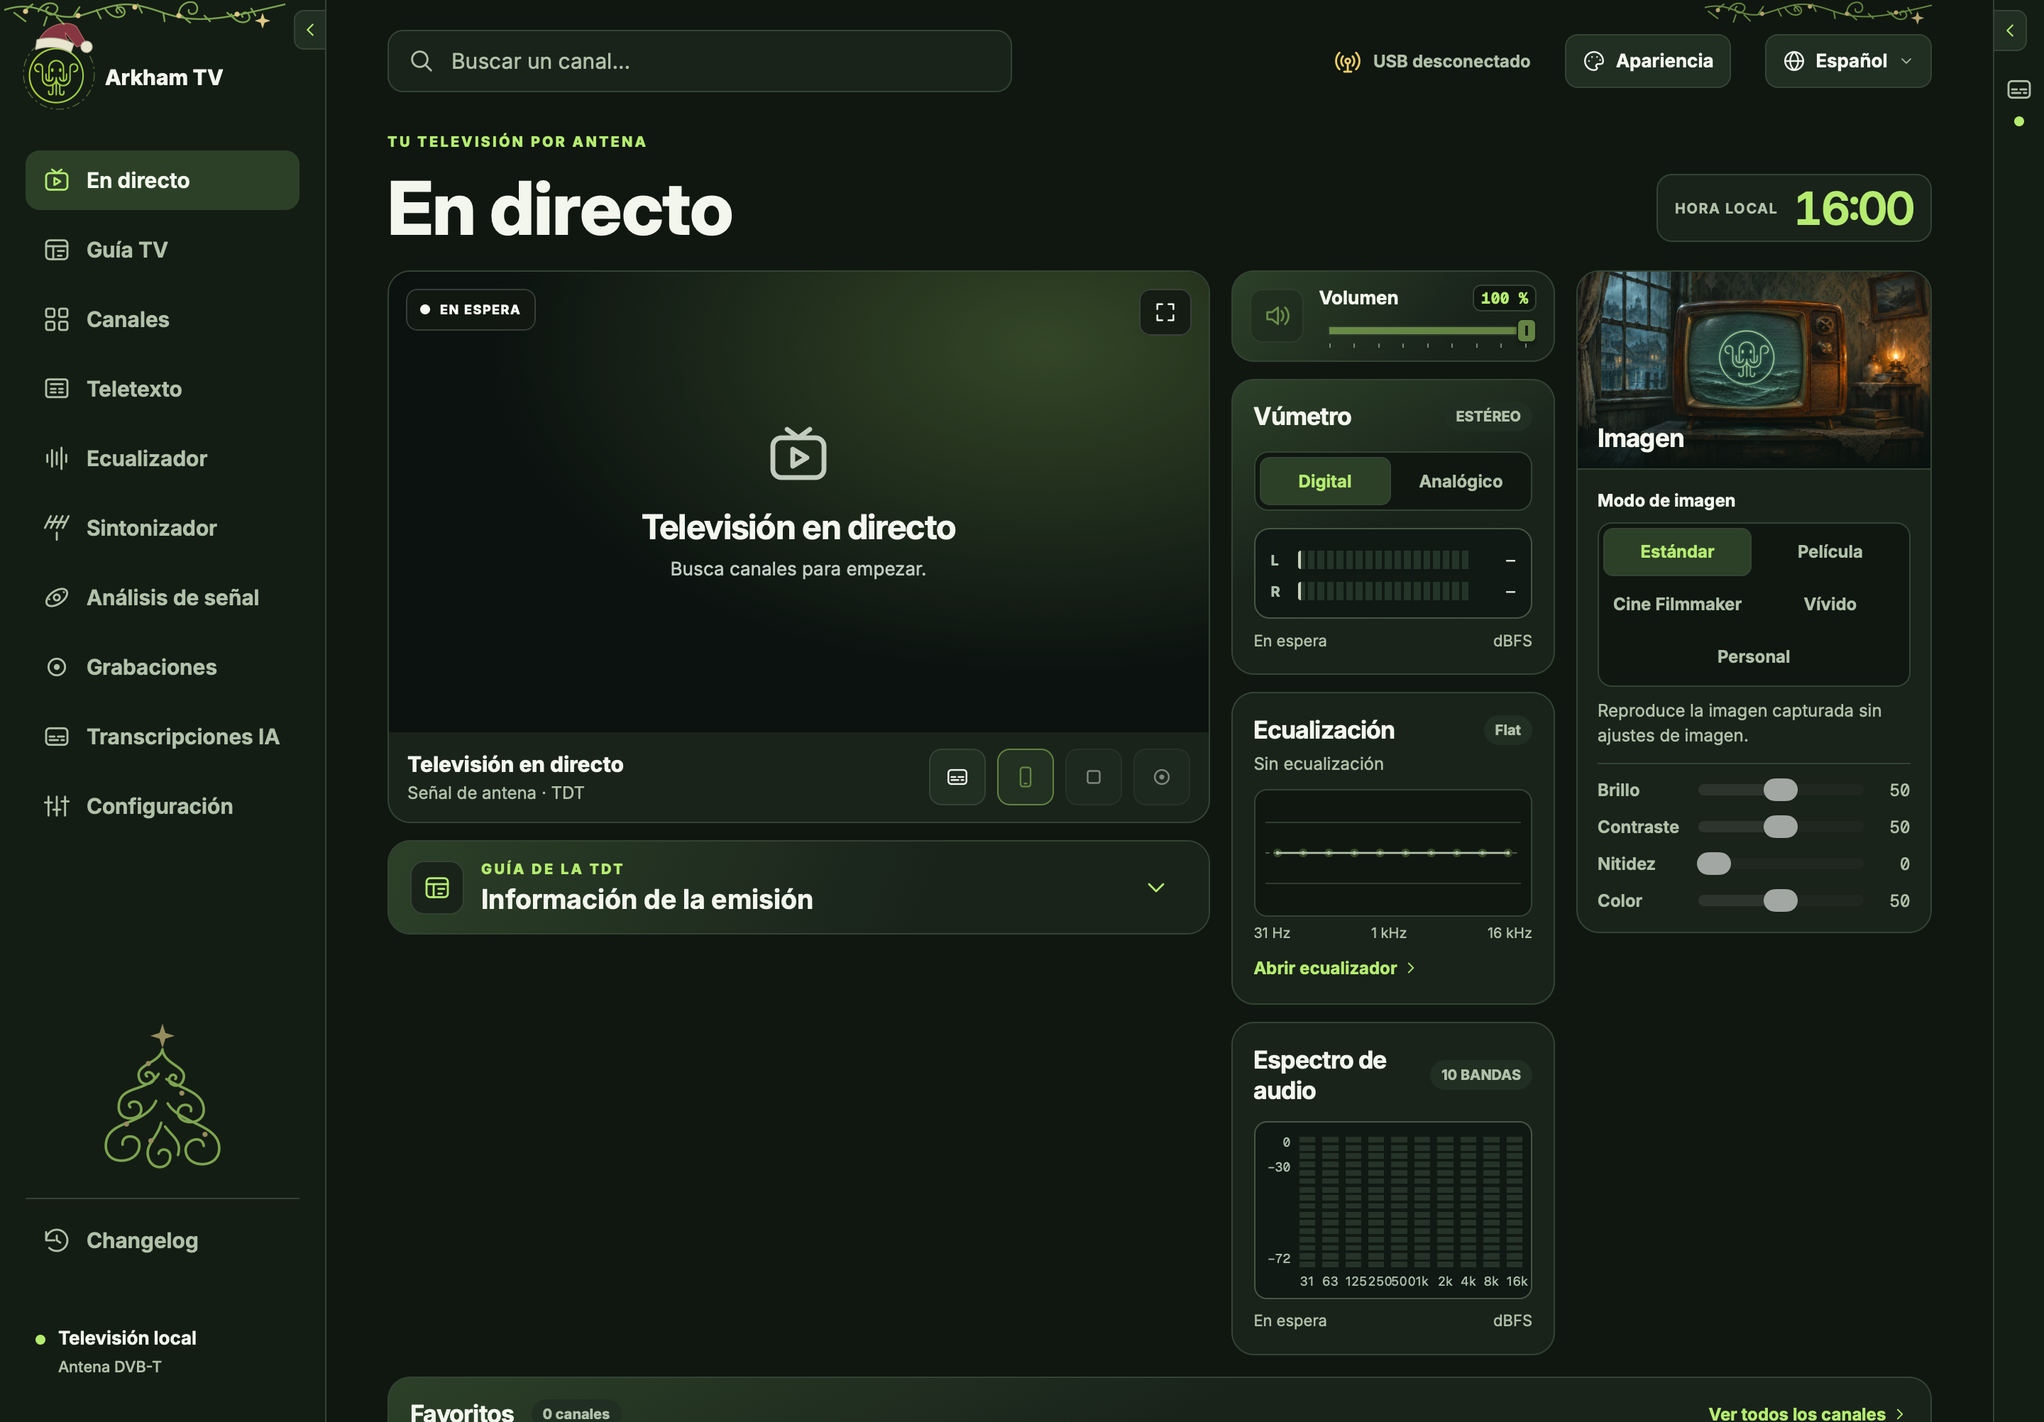
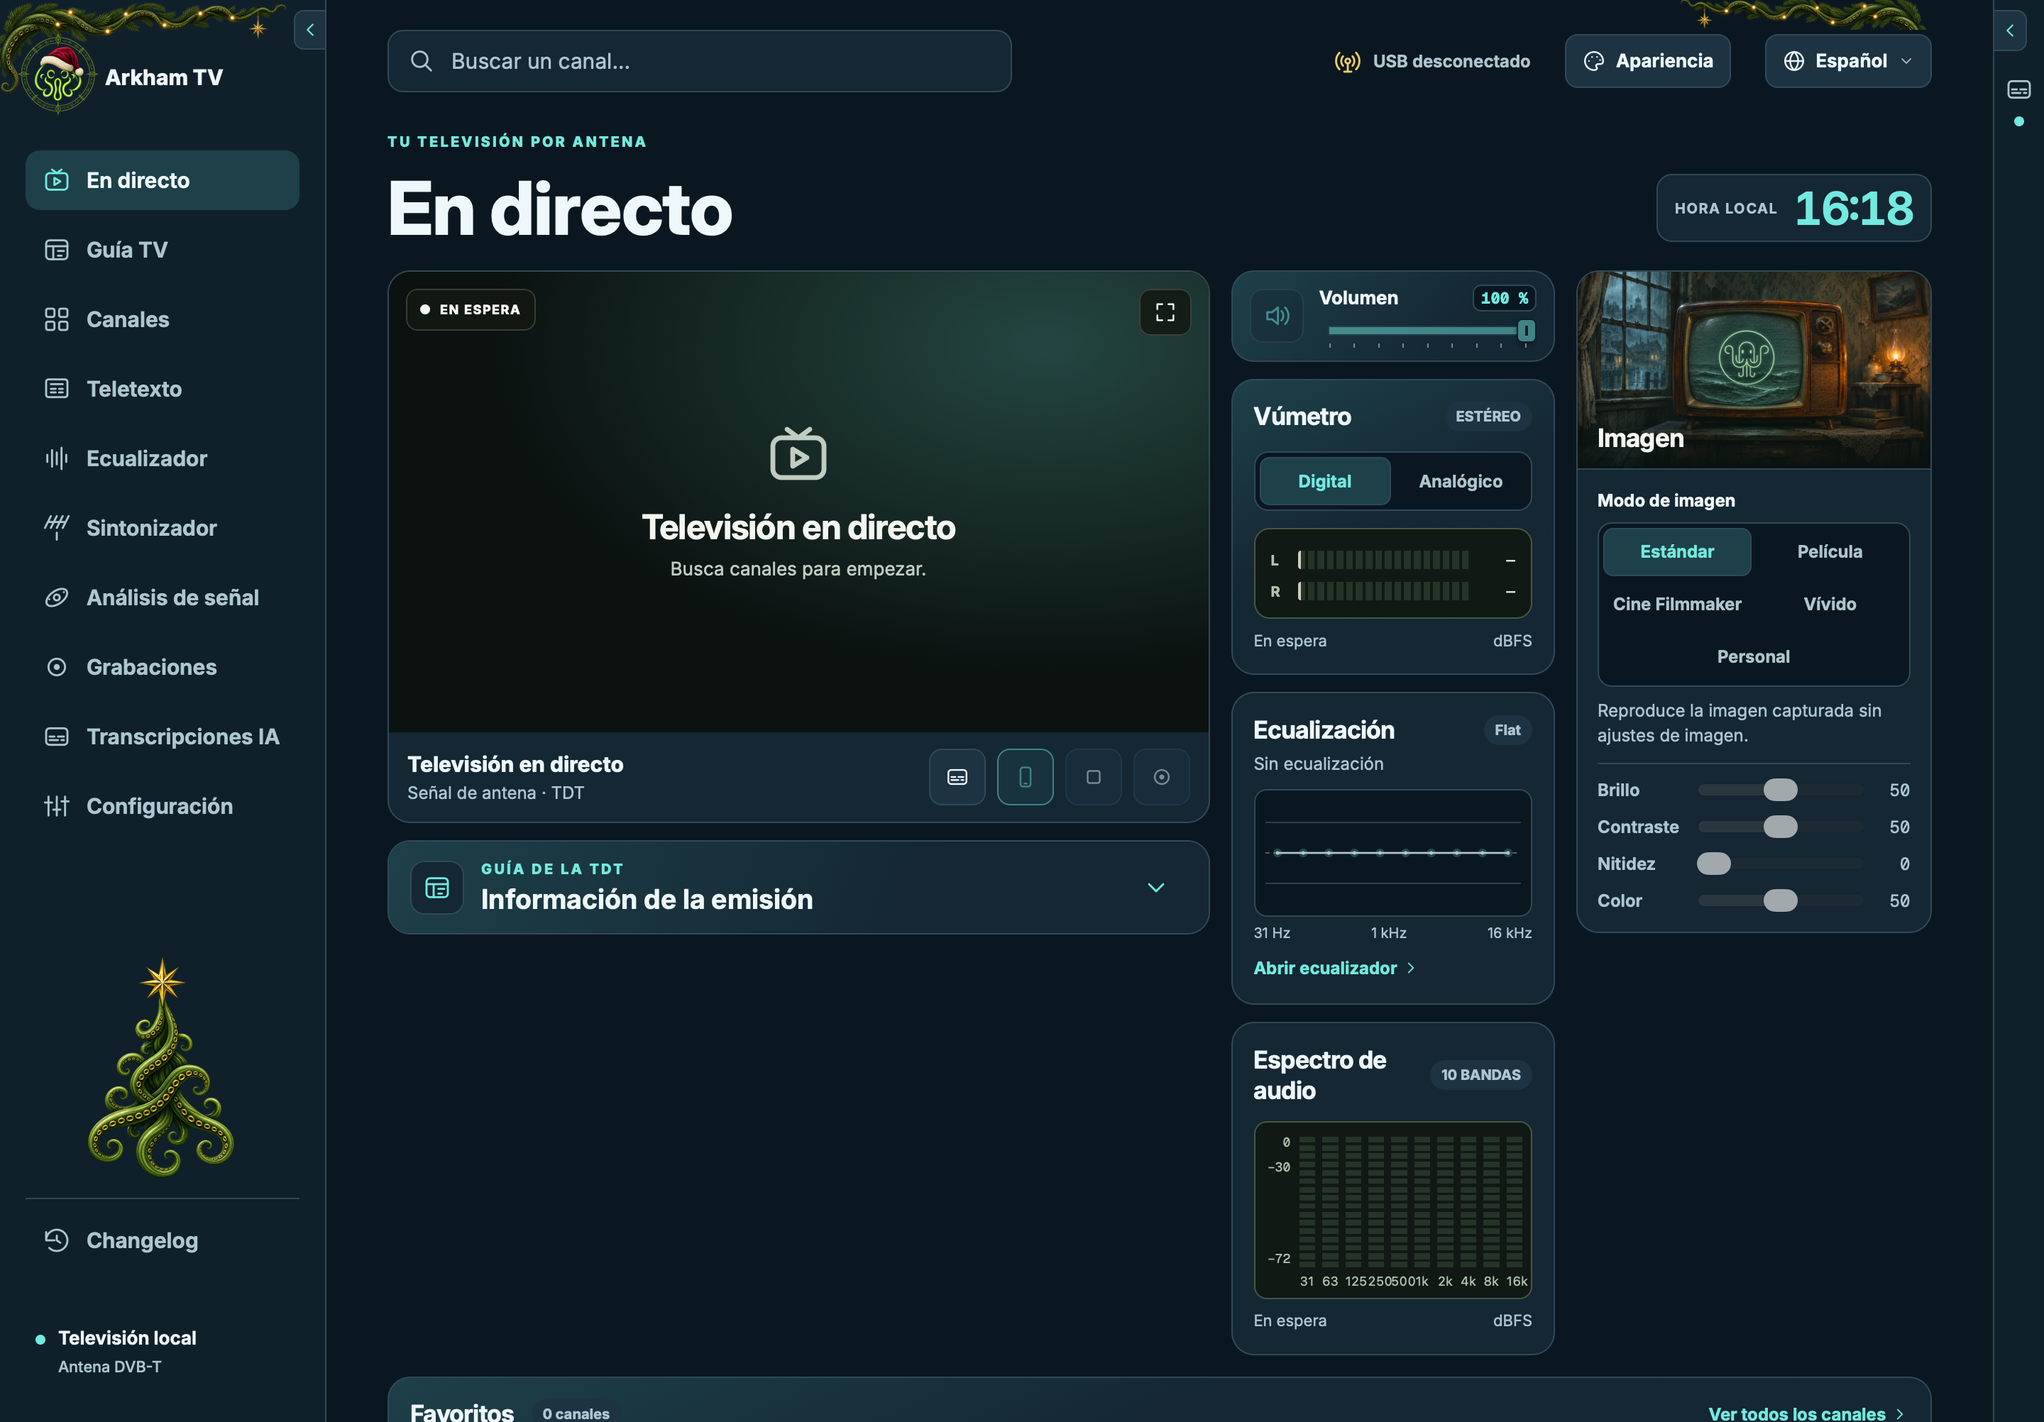
Match seasonal ornaments to approved illustrated mockup (1.12.1 r2)

diff --git a/web/seasonal.js b/web/seasonal.js
@@ -8,31 +8,26 @@
   const topbar = document.querySelector(".topbar");
   if (!rail || !brand || !secondary || !topbar) return;
 
-  const garland = `<svg viewBox="0 0 190 24" xmlns="http://www.w3.org/2000/svg" focusable="false">
-    <g class="season-vine"><path d="M-4 7C23-2 28 18 53 10S82 0 108 9s47 3 86-6M3 9l8 6m0-8 5-4m10 9-2 6m9-6 5 5m7-6 4-6m12 2 3 6m11-9 4 5m11-6 3 6m15 0 1 6m12-4 6 5m10-5 4 4m12-6 5 4m12-7 3 5"/>
-    <path d="M20 8c5-10 18-5 12 1-4 4-9-2-5-4M67 6c6 10 17 6 13 0-3-3-7 1-4 3M119 11c-1-10 13-13 13-5 0 5-7 5-6 1M156 10c4 9 16 6 12 0-2-3-6 0-4 2"/></g>
-    <g class="season-lights"><circle cx="11" cy="8" r="1.8"/><circle cx="48" cy="11" r="1.8"/><circle cx="88" cy="5" r="1.8"/><circle cx="119" cy="11" r="1.8"/><circle cx="160" cy="10" r="1.8"/></g>
-    <path class="season-star" d="m178 9 1.4 4.2 4.2 1.4-4.2 1.4-1.4 4.2-1.4-4.2-4.2-1.4 4.2-1.4z"/>
-  </svg>`;
-  const emblem = `<svg viewBox="0 0 55 68" xmlns="http://www.w3.org/2000/svg" focusable="false">
-    <circle class="season-wreath" cx="27.5" cy="40" r="25"/>
-    <path class="season-hat" d="M13 17C19 4 35 2 40 7l7 12-7 2-8-10c0 5 5 9 5 9z"/>
-    <path class="season-trim" d="M12 16c7-2 18-2 26 3l-2 6c-7-4-17-5-25-2z"/>
-    <circle class="season-trim" cx="47" cy="21" r="4"/>
-  </svg>`;
-  const tree = `<svg viewBox="0 0 108 120" xmlns="http://www.w3.org/2000/svg" focusable="false">
-    <path class="season-star" d="m54 3 2.2 7.2 7.3 2.3-7.3 2.2-2.2 7.3-2.3-7.3-7.2-2.2 7.2-2.3z"/>
-    <g class="season-tree-vines"><path d="M54 23c-3 12-22 11-18 23 3 8 16 2 10-4-3-3-7 0-4 2M54 24c3 12 20 12 16 23-3 8-14 3-10-3 2-3 6 0 4 2M51 42C42 57 20 50 20 68c0 13 21 10 17-1-2-6-12-3-8 1M57 46c12 8 29 10 29 24 0 13-21 12-20 1 1-7 12-6 10 0M49 63c-9 20-38 14-39 34-1 18 27 15 26 0 0-8-14-9-13 0M58 65c10 16 39 16 40 34 1 17-25 17-26 3-1-9 13-13 14-4M53 80c-3 12-13 17-10 27 3 11 17 9 17-1 0-6-8-7-9-2M56 83c6 8 13 11 10 22"/></g>
-    <g class="season-lights"><circle cx="43" cy="34" r="2"/><circle cx="69" cy="57" r="2"/><circle cx="26" cy="81" r="2"/><circle cx="87" cy="89" r="2"/><circle cx="45" cy="94" r="2"/></g>
-  </svg>`;
+  const garland = "/seasonal/garland.png";
+  const emblem = "/seasonal/emblem.png";
+  const tree = "/seasonal/tree.png";
   let artwork = [], observer = null, timer = null;
 
-  function add(parent, kind, svg) {
+  function add(parent, kind, source) {
     const node = document.createElement("span");
     node.className = "season-art season-" + kind;
     node.setAttribute("aria-hidden", "true");
     node.setAttribute("inert", "");
-    node.innerHTML = svg;
+    const image = document.createElement("img");
+    image.alt = "";
+    image.draggable = false;
+    image.decoding = "async";
+    if (kind === "emblem") {
+      image.addEventListener("load", () => { if (artwork.includes(node)) root.classList.add("season-emblem-ready"); });
+      image.addEventListener("error", () => root.classList.remove("season-emblem-ready"));
+    }
+    image.src = source;
+    node.append(image);
     parent.append(node);
     artwork.push(node);
   }
@@ -40,7 +35,7 @@
     const previous = secondary.previousElementSibling;
     const space = previous ? secondary.getBoundingClientRect().top - previous.getBoundingClientRect().bottom : 0;
     // Absolute artwork never consumes space or pushes the existing navigation.
-    root.classList.toggle("season-tree-room", space >= 144);
+    root.classList.toggle("season-tree-room", space >= 184);
   }
   function refresh() {
     clearTimeout(timer);
@@ -56,7 +51,7 @@
     } else if (!active && artwork.length) {
       observer.disconnect(); observer = null;
       artwork.forEach(node => node.remove()); artwork = [];
-      root.classList.remove("season-tree-room");
+      root.classList.remove("season-tree-room", "season-emblem-ready");
     }
     root.classList.toggle("season-solstice", active);
     if (active) fitTree();

diff --git a/web/seasonal.css b/web/seasonal.css
@@ -1,30 +1,28 @@
-/* Theme-aware, static vectors. Never attached to video, audio or AI controls. */
+/* Illustrated alpha assets from the approved mockup. No filters or animations. */
 .season-art { display: none; pointer-events: none; user-select: none; }
-.season-solstice .season-art { position: absolute; display: block; color: var(--accent); }
-.season-art svg { display: block; width: 100%; height: 100%; stroke-width: 1.2; }
+.season-solstice .season-art { position: absolute; display: block; }
+.season-art img { display: block; width: 100%; height: 100%; object-fit: contain; pointer-events: none; }
 .season-solstice .brand, .season-solstice .nav-secondary, .season-solstice .topbar { position: relative; }
-.season-rail-garland { inset: 0 28px auto 3px; height: 24px; overflow: hidden; }
-.season-emblem { width: 55px; height: 68px; left: -4px; top: -19px; }
-.season-wreath { stroke: currentColor; stroke-width: .7; stroke-dasharray: 5 3 1 3; opacity: .38; }
-.season-hat { fill: #853641; stroke: #b76a6a; stroke-width: .6; }
-.season-trim { fill: #e8e5cf; stroke: #b6b49e; stroke-width: .6; }
-.season-vine { stroke: currentColor; opacity: .65; }
-.season-lights, .season-star { fill: #dcc785; stroke: none; }
-.season-tree-vines { stroke: currentColor; stroke-width: 2; }
-.season-solstice .season-corner { width: 160px; height: 21px; right: 0; top: -21px; opacity: .8; }
-.season-solstice .season-tree { display: none; width: 98px; height: 116px; left: calc(50% - 49px); bottom: calc(100% + 14px); opacity: .65; }
+.season-solstice .brand { z-index: 1; }
+.season-solstice.season-emblem-ready .brand-mark { visibility: hidden; }
+.season-rail-garland { inset: 0 24px auto -6px; height: auto; aspect-ratio: 3; }
+.season-solstice .season-emblem { width: 62px; height: 66px; left: -8px; top: -11px; }
+.season-solstice .season-corner { width: 180px; height: 24px; right: 0; top: -24px; overflow: hidden; }
+.season-corner img { width: 180px; height: 60px; transform: scaleX(-1); }
+.season-solstice .season-tree { display: none; width: 120px; height: 160px; left: calc(50% - 60px); bottom: calc(100% + 12px); }
 .season-solstice.season-tree-room .season-tree { display: block; }
-:root[data-effective-mode="claro"] .season-lights,
-:root[data-effective-mode="claro"] .season-star { fill: #8b6c24; }
 .signal-rail-collapsed .season-rail-garland,
 .signal-rail-collapsed .season-tree,
 .mini-mode .season-art,
 .monitor-expanded .season-art,
 body:has(.screen.monitor-expanded) .season-art { display: none !important; }
-.signal-rail-collapsed .season-emblem { width: 48px; height: 60px; top: -17px; }
+.signal-rail-collapsed .season-emblem { width: 54px; height: 58px; left: -7px; top: -9px; }
 @media (max-width: 820px) {
   .season-solstice .season-tree, .season-solstice .season-rail-garland,
   .season-solstice .season-corner { display: none; }
-  .season-solstice .season-emblem { width: 43px; height: 52px; left: -2px; top: -14px; }
+  .season-solstice .season-emblem { width: 50px; height: 52px; left: -6px; top: -8px; }
 }
-@media print, (forced-colors: active) { .season-art { display: none !important; } }
+@media print, (forced-colors: active) {
+  .season-art { display: none !important; }
+  .season-solstice.season-emblem-ready .brand-mark { visibility: visible; }
+}

diff --git a/app.py b/app.py
@@ -1076,6 +1076,7 @@ STATIC_PATHS = {"/": WEB / "index.html", "/style.css": WEB / "style.css", "/tv.j
                 "/qrcode.js": WEB / "qrcode.js", "/mobile-share.js": WEB / "mobile-share.js",
                 "/mobile-share.css": WEB / "mobile-share.css",
                 "/seasonal.js": WEB / "seasonal.js", "/seasonal.css": WEB / "seasonal.css",
+                **{"/seasonal/" + name: WEB / "seasonal" / name for name in ("tree.png", "garland.png", "emblem.png")},
                 "/assets/canales/catalogo.js": CHANNEL_LOGOS / "catalogo.js",
                 "/assets/fonts/InterVariable.woff2": ROOT / "assets" / "fonts" / "InterVariable.woff2",
                 "/assets/fonts/GeistMono-Variable.ttf": ROOT / "assets" / "fonts" / "GeistMono-Variable.ttf",

diff --git a/macos/package.py b/macos/package.py
@@ -207,7 +207,7 @@ def stage_ai_release(contents, helpers):
     plist = contents / "Info.plist"
     info = plistlib.loads(plist.read_bytes())
     info["CFBundleShortVersionString"] = version
-    info["CFBundleVersion"] = "69"
+    info["CFBundleVersion"] = "70"
     plist.write_bytes(plistlib.dumps(info))
 
 

diff --git a/linux/package.py b/linux/package.py
@@ -18,7 +18,7 @@ from native.changelog import release_version
 from native.local_ai import TOOLS as AI_TOOLS
 
 ARCHITECTURES = {"x86_64": 62, "aarch64": 183}
-DEBIAN_REVISION = 1
+DEBIAN_REVISION = 2
 ICON = ROOT / "assets/arkhamtv-icon.png"
 DESKTOP_ENTRY = ROOT / "linux/com.arkhamtv.desktop.desktop"
 

diff --git a/README.md b/README.md
@@ -6,11 +6,11 @@ Arkham TV permite **ver y grabar la TDT en abierto** en macOS y Linux. Puedes co
 
 El proyecto empezó para recuperar el uso de los sintonizadores **AVerMedia A835 y A835B**. En Linux también funciona con otros sintonizadores DVB-T o DVB-T2 que el sistema reconozca como dispositivos DVB. Los perfiles guardan la lista de canales de cada lugar.
 
-[Arkham TV en Snap Store](https://snapcraft.io/arkham-tv) · [Descargar Arkham TV 1.12.1](https://github.com/atreviainnov8spain/Arkham-TV/releases/tag/v1.12.1) · [Historial de cambios](docs/CHANGELOG.md) · [Licencia](LICENSE.md)
+[Arkham TV en Snap Store](https://snapcraft.io/arkham-tv) · [Descargar Arkham TV 1.12.1](https://github.com/atreviainnov8spain/Arkham-TV/releases/tag/v1.12.1-r2) · [Historial de cambios](docs/CHANGELOG.md) · [Licencia](LICENSE.md)
 
 ## Novedades de la 1.12.1
 
-**Solsticio en Arkham:** detalles navideños de Cthulhu adaptados al tema, visibles cada año del **20 de noviembre al 8 de enero**, ambos incluidos. Son elementos estáticos del marco y del menú; se ocultan si falta espacio y en la vista del reproductor a pantalla completa.
+**Solsticio en Arkham · revisión 2:** adornos ilustrados de Cthulhu con pino, luces cálidas y tentáculos con volumen, visibles cada año del **20 de noviembre al 8 de enero**, ambos incluidos. Son elementos estáticos del marco y del menú; se ocultan si falta espacio y en la vista del reproductor a pantalla completa.
 
 ![Solsticio en Arkham adaptado a la interfaz actual](docs/propuestas/navidad/Solsticio-en-Arkham.png)
 
@@ -23,7 +23,7 @@ El proyecto empezó para recuperar el uso de los sintonizadores **AVerMedia A835
 - **Biblioteca más clara:** distintivos **DIRECTO** y **GRABACIÓN**, título, fecha y modelo utilizado. Puedes limpiar el panel tras finalizar conservando la sesión y el audio pendiente.
 - **Reproducción prioritaria:** cola local de audio pendiente, mejoras de protección en Linux y motores AVX2 para procesadores Intel/AMD compatibles. macOS conserva Whisper con Metal.
 
-Las descargas incluyen **macOS Universal**, **Ubuntu ARM64** y **Ubuntu Intel/AMD**, además de los Snaps y ejecutables portátiles de Linux. [Ejecutables y comprobaciones SHA-256](https://github.com/atreviainnov8spain/Arkham-TV/releases/tag/v1.12.1)
+Las descargas incluyen **macOS Universal**, **Ubuntu ARM64** y **Ubuntu Intel/AMD**, además de los Snaps y ejecutables portátiles de Linux. [Ejecutables y comprobaciones SHA-256](https://github.com/atreviainnov8spain/Arkham-TV/releases/tag/v1.12.1-r2)
 
 ## Novedades de la 1.10
 
@@ -57,7 +57,7 @@ Para usar un sintonizador de antena directa en una instalación nueva, habilita 
 
 ### Ubuntu Desktop con paquete .deb
 
-Descarga el paquete **1.12.1** de tu arquitectura. [Ubuntu AMD64 (Intel y AMD de 64 bits)](https://github.com/atreviainnov8spain/Arkham-TV/releases/download/v1.12.1/Arkham-TV-1.12.1-Ubuntu-Intel-x86_64.deb) · [Ubuntu ARM64](https://github.com/atreviainnov8spain/Arkham-TV/releases/download/v1.12.1/Arkham-TV-1.12.1-Ubuntu-ARM64.deb)
+Descarga el paquete **1.12.1** de tu arquitectura. [Ubuntu AMD64 (Intel y AMD de 64 bits)](https://github.com/atreviainnov8spain/Arkham-TV/releases/download/v1.12.1-r2/Arkham-TV-1.12.1-Ubuntu-Intel-x86_64.deb) · [Ubuntu ARM64](https://github.com/atreviainnov8spain/Arkham-TV/releases/download/v1.12.1-r2/Arkham-TV-1.12.1-Ubuntu-ARM64.deb)
 
 Abre el paquete de tu arquitectura en el **Centro de aplicaciones** de Ubuntu. También puedes instalar el archivo con `sudo apt install ./nombre-del-paquete.deb` desde la carpeta de descargas. A continuación, abre **Arkham TV** desde el menú de aplicaciones. El paquete incluye el lector DVB, FFmpeg y FFprobe. Ubuntu instala las dependencias del escritorio.
 
@@ -76,7 +76,7 @@ El paquete de prueba incluye acceso a dispositivos para que Arkham TV use `/dev/
 
 ### macOS
 
-Descarga el ZIP universal de **Arkham TV 1.12.1**, descomprímelo y abre **Arkham TV.app**. Requiere macOS 12.3 o posterior y funciona en Intel y Apple Silicon. La app incluye Python, los códecs y el lector USB. [macOS Universal](https://github.com/atreviainnov8spain/Arkham-TV/releases/download/v1.12.1/Arkham-TV-1.12.1-macOS-Universal.zip)
+Descarga el ZIP universal de **Arkham TV 1.12.1**, descomprímelo y abre **Arkham TV.app**. Requiere macOS 12.3 o posterior y funciona en Intel y Apple Silicon. La app incluye Python, los códecs y el lector USB. [macOS Universal](https://github.com/atreviainnov8spain/Arkham-TV/releases/download/v1.12.1-r2/Arkham-TV-1.12.1-macOS-Universal.zip)
 
 ## Transcripción e IA local
 

diff --git a/docs/propuestas/navidad/RECURSOS.md b/docs/propuestas/navidad/RECURSOS.md
@@ -1,0 +1,20 @@
+# Ilustraciones de Solsticio en Arkham
+
+La revisión 2 utiliza tres ilustraciones PNG con transparencia real. Se generaron con la herramienta integrada de imágenes a partir de la propuesta aprobada «Solsticio en Arkham». Se prepararon a las resoluciones necesarias para la interfaz; no se aplican filtros ni animaciones durante la reproducción.
+
+- [Emblema](../../../web/seasonal/emblem.png): 192 × 192.
+- [Guirnalda](../../../web/seasonal/garland.png): 1024 × 341.
+- [Árbol](../../../web/seasonal/tree.png): 384 × 512.
+- [Captura en la interfaz real](Solsticio-en-Arkham.png).
+
+## Prompts de producción
+
+Se proporcionó la misma imagen de referencia aprobada para las tres llamadas; se solicitó `transparent_background: true`.
+
+**Árbol.** Extraer solamente el árbol de tentáculos de la tarjeta inferior derecha «Árbol de R’lyeh». Conservar la composición de tentáculos curvados, ventosas doradas, luces y sombras verdes con volumen, bordes delicados y estrella dorada de ocho puntas. Un único árbol aislado, fondo transparente con alfa real, sin tarjeta, interfaz, texto, suelo ni sombra exterior. Composición vertical con margen del 3 %, sin cortar partes. Mantener el acabado ilustrado elaborado de la propuesta.
+
+**Guirnalda.** Extraer la guirnalda de la esquina superior izquierda de la propuesta. Tentáculos de Cthulhu en verde oliva con pequeñas ventosas doradas, ramas de pino detalladas entrelazadas y siete pequeñas bombillas de luz cálida. Acabado ilustrado con volumen y sombras sutiles. Composición horizontal, más densa en la izquierda, un tentáculo descendente en ese extremo y una estrella dorada colgante a la derecha. Fondo transparente, sin texto, marco, nieve ni otros personajes.
+
+**Emblema.** Extraer el emblema de Cthulhu de la tarjeta superior derecha. Conservar el símbolo verde de cabeza redondeada y tentáculos simétricos, la corona ritual circular con detalles botánicos y el gorro de terciopelo rojo vino con pliegues, borde marfil y pompón. Mantener las proporciones, la paleta y el acabado ilustrado. Un solo emblema, fondo transparente incluso dentro del círculo, sin disco de fondo, tarjeta, texto ni sombra exterior. Margen del 3 %, sin recortes.
+
+La navegación y la geometría de los controles se mantienen. Los adornos se ocultan en la reproducción a pantalla completa y el árbol aparece solo con espacio suficiente.

diff --git a/snap/store/listing-en.md b/snap/store/listing-en.md
@@ -6,7 +6,7 @@ Watch and record free-to-air TV on Linux with a compatible USB DVB-T/T2 tuner or
 
 **NEW IN 1.12.1 · SOLSTICE IN ARKHAM**
 
-Seasonal Cthulhu details match your colour theme from 20 November through 8 January each year. Static artwork stays in the frame and navigation, outside the video and controls; it adapts to the space available.
+Illustrated pine garlands, warm lights and Cthulhu ornaments appear from 20 November through 8 January each year. Static artwork stays in the frame and navigation, outside the video and controls; it adapts to the space available.
 
 **INCLUDED FROM 1.12**
 

diff --git a/docs/CHANGELOG.md b/docs/CHANGELOG.md
@@ -2,6 +2,8 @@
 
 ## 1.12.1 · Solsticio en Arkham
 
+Revisión 2: recursos ilustrados fieles a la propuesta aprobada, con transparencias, volumen, pino y luces cálidas.
+
 - Emblema de Cthulhu navideño, guirnalda y árbol de tentáculos adaptados a cada tema.
 - Activación automática anual del 20 de noviembre al 8 de enero inclusive, según la fecha local.
 - Elementos estáticos sin interacción, fuera del vídeo y de sus controles. El árbol aparece solo si queda espacio libre.
